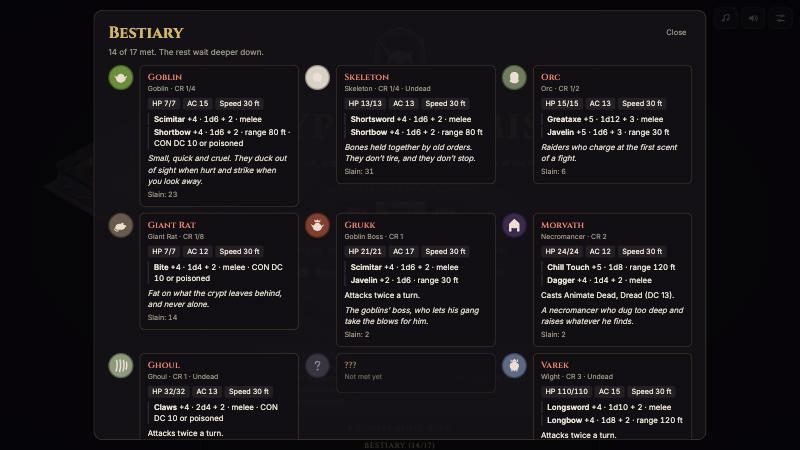
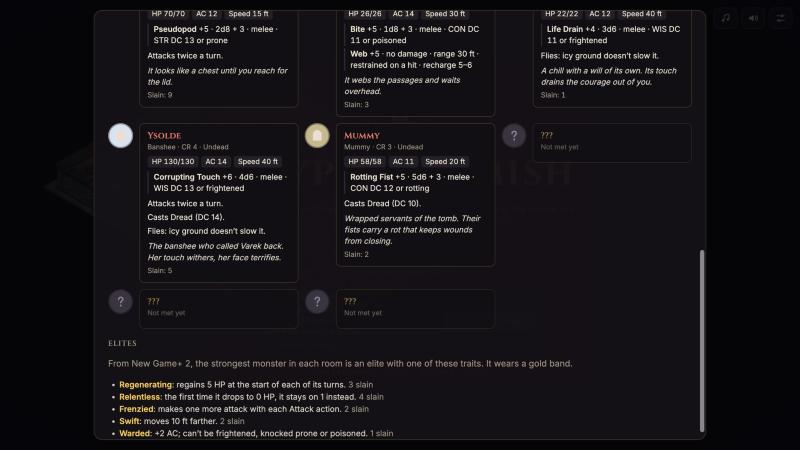
Show elite traits on the camp map and refresh the bestiary and victory screenshots

diff --git a/src/ui/camp.js b/src/ui/camp.js
@@ -5,7 +5,7 @@ import { Bestiary } from './bestiary.js';
 import { Overlay } from './overlay.js';
 import {
   NODES, choices, mapEdges, nodeName, heroUnit, HERO_CODES, XP_LEVELS, levelForXp, equipProblem, equipPreview, DIFFICULTIES, difficultyLabel,
-  cleanName,
+  cleanName, roomElite,
 } from '../game/campaign.js';
 import { TEMPLATES, CLASS_CHOICES } from '../game/units.js';
 import { ITEMS } from '../game/items.js';
@@ -312,11 +312,14 @@ export class Camp {
       const state_ = cleared.has(id) ? 'cleared' : options.includes(id) ? 'available' : 'locked';
       const cls = ['node', kind, state_, id === state.at ? 'here' : '', id === this.selected ? 'selected' : ''].join(' ');
       const label = n.short ?? nodeName(id).replace(/^The /, '');
+      const elite = cleared.has(id) ? null : roomElite(id, state.tier); // New Game+ 2 and deeper
+      const r = kind === 'boss' ? 21 : 18;
       return `<g class="${cls}" data-node="${id}" transform="translate(${p.x} ${p.y})" ${state_ === 'available' ? 'tabindex="0" role="button"' : ''}>
-        <title>${esc(nodeName(id))}</title>
-        <circle r="${kind === 'boss' ? 21 : 18}" />
+        <title>${esc(nodeName(id))}${elite ? ` · Elite: ${esc(elite.name)}` : ''}</title>
+        <circle r="${r}" />
         <g class="glyph">${GLYPH[kind]}</g>
         ${cleared.has(id) ? '<path class="tick" d="M10 -14 l4 4 l8 -9" />' : ''}
+        ${elite ? `<circle class="elite-pip" cx="${-r * 0.72}" cy="${-r * 0.72}" r="4.5" />` : ''}
         <text y="${kind === 'boss' ? 38 : 34}">${esc(label)}</text>
       </g>`;
     }).join('');
@@ -329,9 +332,11 @@ export class Camp {
     const n = NODES[id];
     const intro = n.kind === 'rest' ? n.intro : levelById(n.level).intro;
     const verb = n.verb ?? `Enter ${nodeName(id)}`;
+    const elite = roomElite(id, state.tier);
     return `<h3>${esc(nodeName(id))}</h3>
       <p>${esc(intro)}</p>
       ${n.teaser ? `<p class="teaser">${esc(n.teaser)}</p>` : ''}
+      ${elite ? `<p class="elite-note"><b>Elite here: ${esc(elite.name)}</b> (${esc(elite.desc)}).</p>` : ''}
       <button type="button" class="primary" data-enter="${id}">${esc(verb)}</button>`;
   }
 

diff --git a/tests/elites.test.js b/tests/elites.test.js
@@ -2,7 +2,7 @@ import { describe, it, expect } from 'vitest';
 import { Game, ELITE_TRAITS, eliteTrait } from '../src/game/combat.js';
 import { seeded } from '../src/game/dice.js';
 import { levelById } from '../src/game/maps.js';
-import { NODES, newCampaign, runDifficulty, completeFight, recordDefeat, runSummary, runShareText } from '../src/game/campaign.js';
+import { NODES, newCampaign, runDifficulty, completeFight, recordDefeat, runSummary, runShareText, roomElite } from '../src/game/campaign.js';
 import { runRecord } from '../src/game/history.js';
 
 const room = (tier, seed = 1, node = 'crypt') => {
@@ -136,5 +136,23 @@ describe('elites in the run summary', () => {
     expect(s.elites).toEqual([]);
     expect(runShareText(s)).not.toMatch(/elite/);
     expect(runRecord(state, 'won', 1).elites).toBeUndefined();
+  });
+});
+
+describe('elites on the camp map', () => {
+  it('names the trait each fight room will have, from New Game+ 2', () => {
+    expect(roomElite('crypt', 1)).toBeNull();
+    expect(roomElite('crypt', 4).id).toBe('relentless');
+    expect(roomElite('sanctum', 2).id).toBe('regenerating');
+    const rest = Object.keys(NODES).find((id) => NODES[id].kind === 'rest');
+    expect(roomElite(rest, 3)).toBeNull();
+    expect(roomElite('nowhere', 3)).toBeNull();
+  });
+
+  it('matches the elite the fight then has', () => {
+    for (const node of Object.keys(NODES).filter((id) => NODES[id].kind !== 'rest')) {
+      const g = room(3, 1, node);
+      expect(elites(g).map((u) => u.elite)).toEqual([roomElite(node, 3).id]);
+    }
   });
 });

diff --git a/src/game/campaign.js b/src/game/campaign.js
@@ -6,7 +6,7 @@ import { TEMPLATES, PROGRESSION, MAX_LEVEL, CLASS_CHOICES, createUnit, applyLeve
 import { ITEMS, applyItems } from './items.js';
 import { abilityMod } from './dice.js';
 import { levelById } from './maps.js';
-import { ELITE_TRAITS } from './combat.js';
+import { ELITE_TRAITS, eliteTrait } from './combat.js';
 
 export const SAVE_VERSION = 1;
 export const HERO_CODES = ['F', 'W', 'R', 'C'];
@@ -193,6 +193,13 @@ export function blankStats() {
   const heroes = {};
   for (const code of HERO_CODES) heroes[code] = Object.fromEntries(STAT_FIELDS.map((f) => [f, 0]));
   return { won: 0, lost: 0, rounds: 0, heroes };
+}
+
+/** The elite trait waiting in a fight room at this New Game+ tier (as the fight will pick it), or null. */
+export function roomElite(nodeId, tier) {
+  const n = NODES[nodeId];
+  if (!n || n.kind === 'rest' || !n.level || (tier ?? 0) < 2) return null;
+  return eliteTrait(levelById(n.level).id, tier);
 }
 
 /** A save's stats if they look right, else a fresh tally (saves from before stats). */

diff --git a/src/style.css b/src/style.css
@@ -1061,11 +1061,14 @@ h3.sub { margin: 10px 0 6px; font: 600 12px var(--display); letter-spacing: 0.08
 #camp-map .node:focus { outline: none; }
 #camp-map .node:focus-visible circle { stroke: #fff; }
 #camp-map .node.here circle { stroke: var(--hero); }
+#camp-map .node circle.elite-pip { fill: #ffd36b; stroke: #1c1720; stroke-width: 1.5; }
 
 #camp-room { margin-top: 6px; padding: 12px 14px; border-radius: 10px; background: rgba(255, 255, 255, 0.04); }
 #camp-room h3 { margin: 0 0 4px; font: 700 17px var(--display); color: var(--ink); }
 #camp-room p { margin: 4px 0; }
 #camp-room .teaser { color: var(--gold); font-size: 13px; }
+#camp-room .elite-note { font-size: 13px; }
+#camp-room .elite-note b { color: #ffc94a; font-weight: 600; }
 #camp-room button { margin-top: 8px; }
 
 .hero-card { padding: 8px 10px; margin-bottom: 6px; border-radius: 8px; background: rgba(255, 255, 255, 0.04); }

diff --git a/README.md b/README.md
@@ -10,7 +10,7 @@ Turn-based, isometric dungeon tactics in the browser, built with three.js and SR
 | --- | --- |
 | ![Hovering Burning Hands shows what the spell does](docs/screenshots/tooltip.jpg) | ![Nekhet's character card in the Hollow Tomb: HP, AC, his Rotting Fist and what happens at half HP](docs/screenshots/card.jpg) |
 | ![The camp after the Sunken Halls: the party reaches level 8 and finds an Amulet of Health, and the map offers the Black Armory or the Ember Hearth before the Tomb](docs/screenshots/camp.jpg) | ![The title screen: continue or start a campaign, the daily crypt, and links to past runs, achievements and the bestiary](docs/screenshots/title.jpg) |
-| ![The bestiary: 14 of 17 monsters met, each with its card, a line of lore and how many were slain](docs/screenshots/bestiary.jpg) | |
+| ![The bestiary: monster cards with a line of lore and how many were slain, and the Elites section with each trait and how many you've slain](docs/screenshots/bestiary.jpg) | ![A won New Game+ 2 campaign: the run's facts, 13 elites slain by trait, and each hero's damage, kills, crits, healing and falls](docs/screenshots/victory.jpg) |
 | ![Nekhet bloodied in the Hollow Tomb: his dead rise, and Ice Storm's frost covers the floor](docs/screenshots/tomb.jpg) | ![Wren's sneak attack on a Fallen Knight in the Black Armory, a wraith close behind](docs/screenshots/armory.jpg) |
 | <img src="docs/screenshots/phone.jpg" alt="The boss room on a phone, with the specters' reach striped red" width="240"> | <img src="docs/screenshots/phone-card.jpg" alt="Holding Nekhet on a phone opens his character card" width="240"> |
 
@@ -118,7 +118,8 @@ It runs on desktop and on phones.
   screen offers it too, until you start a new campaign. Each hero may also keep nothing.
 - **Elites:** from NG+2, the strongest monster in each room is an elite, with a gold band on
   its base, a gold edge on its portrait and one trait: Regenerating, Relentless, Frenzied, Swift
-  or Warded. The trait depends on the room and the tier. When you first see the elite, a horn
+  or Warded. The trait depends on the room and the tier: the camp map marks each room ahead
+  with a gold pip, and picking it names the trait. When you first see the elite, a horn
   sounds, its band flares, a toast and the log name the trait, and on a phone the camera brings
   it into view. Once you have won a campaign, the bestiary lists what each does and how many
   you've slain. The run summary, its image and Past runs count the elites slain.
